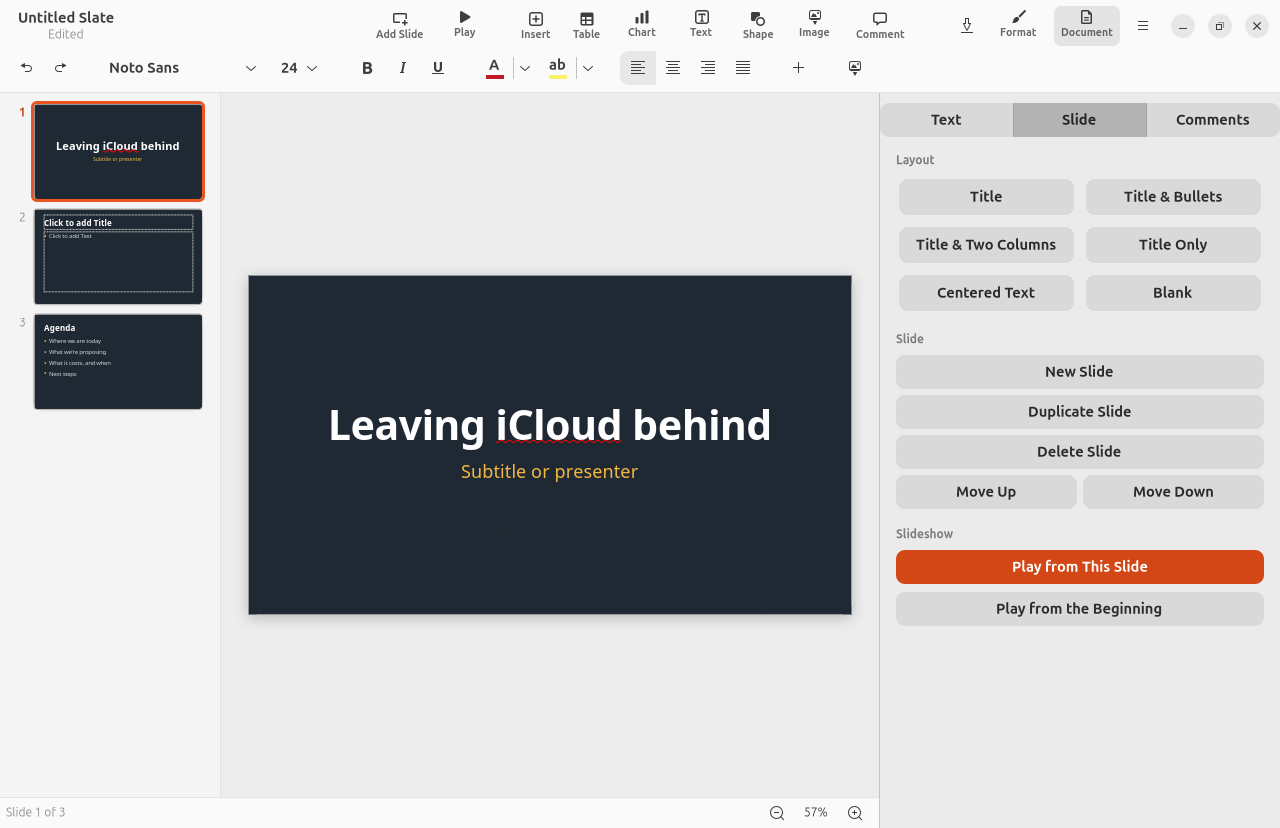
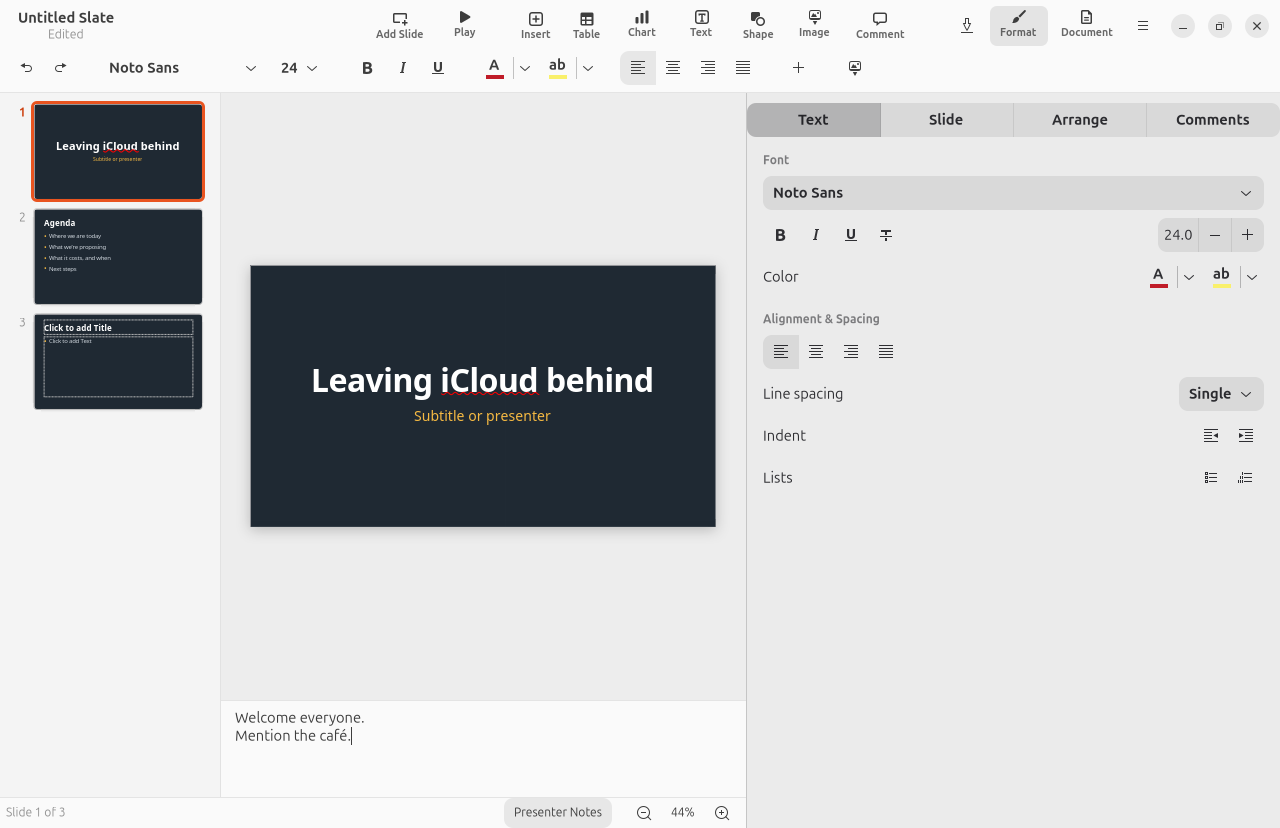
AceOffice 1.0: iWork folder converter, README, release notes
- Convert iWork Files… (main menu): every .pages, .numbers and .key in a folder and
  its subfolders gets a Word, Excel or PowerPoint copy beside it; originals and
  existing copies are left alone.
- Presentation shortcuts in the shortcuts window.
- README and AppStream release notes for 1.0.

Smoke test 57/57, from the checkout and inside the installed Flatpak.

diff --git a/aceoffice/app.py b/aceoffice/app.py
@@ -96,6 +96,8 @@ SHORTCUTS = [
     ("Editing", [("Undo", "<Ctrl>z"), ("Redo", "<Ctrl><Shift>z"), ("Cut", "<Ctrl>x"), ("Copy", "<Ctrl>c"),
                  ("Paste", "<Ctrl>v"), ("Select all", "<Ctrl>a"), ("Find", "<Ctrl>f")]),
     ("Formatting", [("Bold", "<Ctrl>b"), ("Italic", "<Ctrl>i"), ("Underline", "<Ctrl>u")]),
+    ("Presentations", [("Play from this slide", "<Ctrl><Alt>p"), ("Play from the beginning", "F5"),
+                       ("New slide", "<Ctrl><Shift>n"), ("Duplicate slide", "<Ctrl>d")]),
     ("View", [("Zoom in", "<Ctrl>plus"), ("Zoom out", "<Ctrl>minus"), ("Actual size", "<Ctrl>0"),
               ("Keyboard shortcuts", "<Ctrl>question")]),
 ]
@@ -134,6 +136,7 @@ class AceOfficeApp(Adw.Application):
             ("new-spreadsheet", lambda: self.new("spreadsheet"), []),
             ("new-presentation", lambda: self.new("presentation"), []),
             ("open", self.open_dialog, ["<Ctrl>o"]),
+            ("convert-iwork", self.convert_iwork_dialog, []),
             ("about", self.about, []),
             ("shortcuts", self.shortcuts, ["<Ctrl>question"]),
             ("quit", self.quit_all, ["<Ctrl>q"]),
@@ -203,6 +206,64 @@ class AceOfficeApp(Adw.Application):
                 self.restore(entries)
         dialog.connect("response", response)
         dialog.present(win)
+
+    # --- converting a folder of iWork files ------------------------------------------
+
+    def convert_iwork_dialog(self):
+        win = self.get_active_window()
+        dialog = Gtk.FileDialog(title="Choose a Folder of Pages, Numbers and Keynote Files")
+
+        def done(d, res):
+            try:
+                folder = d.select_folder_finish(res).get_path()
+            except GLib.Error:
+                return
+            self._with_office(win, lambda: self.convert_iwork(folder, win))
+        dialog.select_folder(win, None, done)
+
+    def convert_iwork(self, folder, win=None, done=None):
+        """Write a Word, Excel or PowerPoint copy beside every .pages, .numbers and .key file
+        in folder and its subfolders. Originals are left alone; existing copies are kept."""
+        from .window import private_copy
+        targets = {".pages": "docx", ".numbers": "xlsx", ".key": "pptx"}
+        toast = lambda text: win and GLib.idle_add(                       # noqa: E731
+            lambda: win.toasts.add_toast(Adw.Toast(title=text, timeout=6)) and False)
+        toast("Converting…")
+
+        def work():
+            converted, skipped, failed = [], 0, []
+            for root, _dirs, names in os.walk(folder):
+                for name in sorted(names):
+                    stem, ext = os.path.splitext(name)
+                    if ext.lower() not in targets or name.startswith("."):
+                        continue
+                    out = os.path.join(root, f"{stem}.{targets[ext.lower()]}")
+                    if os.path.exists(out):
+                        skipped += 1
+                        continue
+                    copy = None
+                    try:
+                        copy = private_copy(os.path.join(root, name))
+                        doc = self.office.load(copy)
+                        try:
+                            doc.export(out, targets[ext.lower()])
+                        finally:
+                            doc.destroy()
+                        converted.append(out)
+                    except Exception:  # noqa: BLE001 - reported in the summary
+                        failed.append(name)
+                    finally:
+                        if copy and os.path.exists(copy):
+                            os.unlink(copy)
+            parts = [f"Converted {len(converted)} file{'s' if len(converted) != 1 else ''}"]
+            if skipped:
+                parts.append(f"{skipped} already had a copy")
+            if failed:
+                parts.append(f"couldn't read {', '.join(failed[:3])}{'…' if len(failed) > 3 else ''}")
+            toast("; ".join(parts) + ".")
+            if done:
+                GLib.idle_add(done, converted, failed)
+        threading.Thread(target=work, daemon=True).start()
 
     def restore(self, entries):
         for entry in entries:

diff --git a/aceoffice/window.py b/aceoffice/window.py
@@ -151,6 +151,7 @@ class DocumentWindow(Adw.ApplicationWindow):
         file_section.append("New Spreadsheet", "app.new-spreadsheet")
         file_section.append("New Presentation", "app.new-presentation")
         file_section.append("Open…", "app.open")
+        file_section.append("Convert iWork Files…", "app.convert-iwork")
         main_menu.append_section(None, file_section)
         file_section = Gio.Menu()
         file_section.append("Save As…", "win.save-as")

diff --git a/aceoffice/__init__.py b/aceoffice/__init__.py
@@ -2,4 +2,4 @@
 # License, v. 2.0. If a copy of the MPL was not distributed with this
 # file, You can obtain one at https://mozilla.org/MPL/2.0/.
 
-__version__ = "0.2.0"
+__version__ = "1.0.0"

diff --git a/README.md b/README.md
@@ -9,12 +9,13 @@ that feels at home next to the rest of your desktop.
 
 ![Writing a document, with the labelled toolbar and a comment](docs/screenshot-document.png)
 ![A presentation, with the slide navigator and the Slide tab](docs/screenshot-presentation.png)
+![The presenter display: current slide, next slide, notes and a timer](docs/screenshot-presenter.png)
 ![Choosing a template](docs/screenshot-templates.png)
 ![A spreadsheet with a formula](docs/screenshot-spreadsheet.png)
 
-> **Early preview (0.2).** Documents, spreadsheets and presentations work. Presentations
-> need The Document Foundation's LibreOffice, which the Flatpak includes: Ubuntu's own
-> package draws slides blank through LibreOfficeKit ([#1](https://github.com/androbot9000/aceoffice/issues/1)).
+> **Version 1.0.** Presentations need The Document Foundation's LibreOffice, which the
+> Flatpak includes: Ubuntu's own package draws slides blank through LibreOfficeKit
+> ([#1](https://github.com/androbot9000/aceoffice/issues/1)).
 
 ## What works
 
@@ -34,13 +35,29 @@ that feels at home next to the rest of your desktop.
   bar shows the page and word count.
 - **Spreadsheets:** row and column headers (click one to select the whole row or column),
   values and formulas, the formula bar, sheet tabs, fill color, number formats, decimal
-  places, wrap and merge, and the Σ AutoSum button. Gridlines can be hidden per sheet
+  places, wrap and merge, and the Σ AutoSum button. Drag the border after a column letter or
+  row number to resize it; double-click to fit the contents. Gridlines can be hidden per sheet
   in the sidebar. Print margins, paper and orientation are in the sidebar too.
 - **Presentations:** a slide navigator down the left with live thumbnails (right-click for
   New, Duplicate, Delete and Move; Delete key removes a slide), the slide fitted to the window,
   six layouts, and **Play**: full screen with a crossfade, arrows, Space or a click to move on,
   Esc to stop (Ctrl+Alt+P from this slide, F5 from the start). Animations and the file's own
-  transitions aren't played yet.
+  transitions aren't played.
+- **Presenter notes and display:** a notes pane under the slide (the Presenter Notes button in
+  the status bar). With a projector attached, Play shows the slides there and a presenter
+  display on your screen: current and next slide, notes, the time and a timer. Drag slides in
+  the navigator to reorder them.
+- **Images, shapes and text boxes:** drag a handle to resize; the **Arrange** sidebar tab sets
+  fill and border colour, order, alignment, flip and text wrap.
+- **Print** (Ctrl+P) through the system dialog, and **Share > Email** the document or a PDF of
+  it: straight into ACE Mail when that's your mail app, otherwise through the desktop's
+  Email portal.
+- **Spelling:** right-click a misspelled word for suggestions, Ignore and Learn Spelling. The
+  same menu has table row and column commands when you're in a table.
+- **Your work is kept:** a copy of anything unsaved is written within 20 seconds of an edit; if
+  AceOffice or the computer stops unexpectedly, the next start offers it back.
+- **Convert iWork Files…** (main menu): pick a folder, and every Pages, Numbers and Keynote file
+  in it gets a Word, Excel or PowerPoint copy beside it.
 - **Files:** open `.docx .doc .odt .rtf .txt .xlsx .xls .ods .csv .pptx .ppt .odp`, plus Apple
   **`.pages`**, **`.numbers`** and **`.key`** files. iWork files are imported, and the first save
   writes a Word, Excel or PowerPoint copy next to the original. New files save as
@@ -77,7 +94,7 @@ spreadsheets but not slides. You can also point `ACEOFFICE_LO_PATH` at any Libre
 
 Keyboard shortcuts follow GNOME conventions. If you're coming from a Mac, use Ctrl
 where you used ⌘: Ctrl+N new, Ctrl+O open, Ctrl+S save, Ctrl+Shift+S save as,
-Ctrl+P export PDF, Ctrl+W close, Ctrl+B/I/U formatting, Ctrl+Z/Ctrl+Shift+Z undo/redo.
+Ctrl+P print, Ctrl+Shift+E export PDF, Ctrl+W close, Ctrl+B/I/U formatting, Ctrl+Z/Ctrl+Shift+Z undo/redo.
 
 ## How it works
 
@@ -89,13 +106,15 @@ Ctrl+P export PDF, Ctrl+W close, Ctrl+B/I/U formatting, Ctrl+Z/Ctrl+Shift+Z undo
 | `aceoffice/manager.py` | Start window (recent files with thumbnails) and the template chooser |
 | `aceoffice/tools.py` | The labelled toolbar and its Insert, Table, Chart, Shape and Comment commands |
 | `aceoffice/comments.py` | The Comments sidebar tab |
-| `aceoffice/slides.py` | The slide navigator and Play (the full-screen slideshow) |
+| `aceoffice/slides.py` | The slide navigator, presenter notes, Play and the presenter display |
+| `aceoffice/share.py` | Share by Email (ACE Mail directly, or the Email portal) |
+| `aceoffice/recovery.py` | Copies of unsaved documents, offered back after a crash |
 | `aceoffice/thumbs.py` | Page thumbnails, rendered by LibreOffice on a worker thread and cached |
 | `aceoffice/templates/` | Starter templates as flat ODF, written by `tools/make-templates.py` |
 | `aceoffice/headers.py` | Spreadsheet row and column headers |
 | `aceoffice/inspector.py` | Formatting controls and the Format sidebar, including page setup |
 | `aceoffice/widgets.py` | Colour buttons, measurement units |
-| `aceoffice/macros/` | LibreOffice Basic used where LibreOfficeKit has no command (page margins) |
+| `aceoffice/macros/` | LibreOffice Basic used where LibreOfficeKit has no command (page margins, presenter notes) |
 | `aceoffice/app.py` | Application, actions, starting the engine in the background |
 | `tests/smoke.sh` | End-to-end test in a headless GNOME Shell. Creates, edits, saves and reopens files and takes screenshots (`SMOKE_THEME=1` renders with your own GTK theme) |
 | `flatpak/` | The Flatpak manifest; `tools/build-flatpak.sh` builds it, `tools/unpack-libreoffice.sh` trims TDF's LibreOffice to what AceOffice uses |
@@ -112,14 +131,13 @@ file beside your documents or opens a read-only template read-only.
 
 ## Roadmap
 
-1. **Now:** documents, spreadsheets and presentations, local files, a Flatpak.
-2. **Next:** speaker notes and a presenter view, slide transitions, Share by Email to
-   ACE Mail, and a bulk iWork converter (drop in a folder of Pages, Numbers and Keynote
-   files and get Office or ODF copies).
+1. **Done (1.0):** documents, spreadsheets and presentations; printing, sharing, recovery;
+   a Flatpak with its own LibreOffice.
+2. **Next:** slide transitions and animations in Play, frozen rows and columns in
+   spreadsheets, tracked changes.
 3. **Cloud places in the sidebar:** iCloud Drive (via rclone, with the 2FA sign-in
    handled for you), Google Drive and OneDrive.
-4. **Polish and Flathub**, and handoff with ACE Mail (open attachments in AceOffice,
-   attach a document to an email).
+4. **Flathub.**
 
 ## License
 
